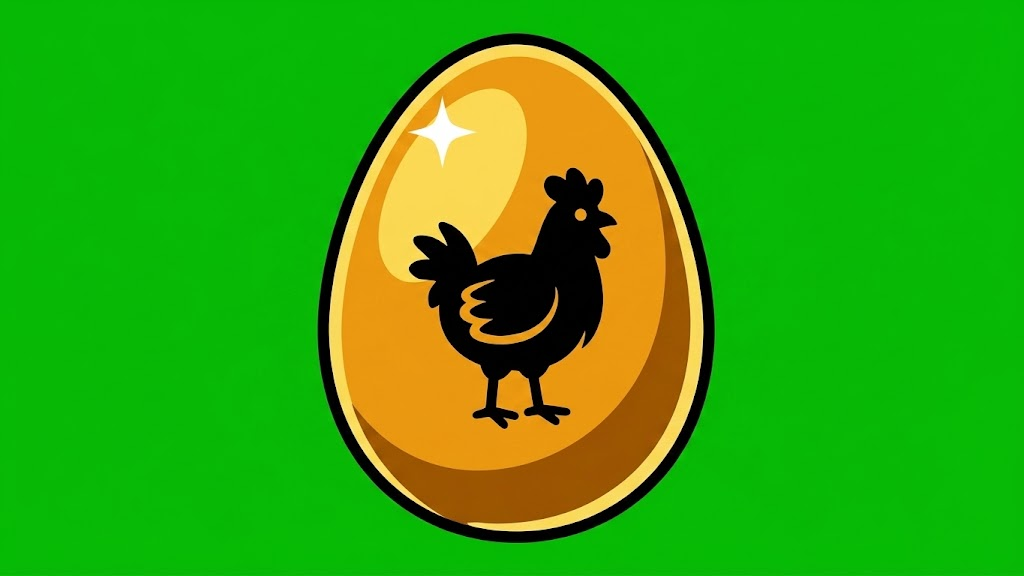
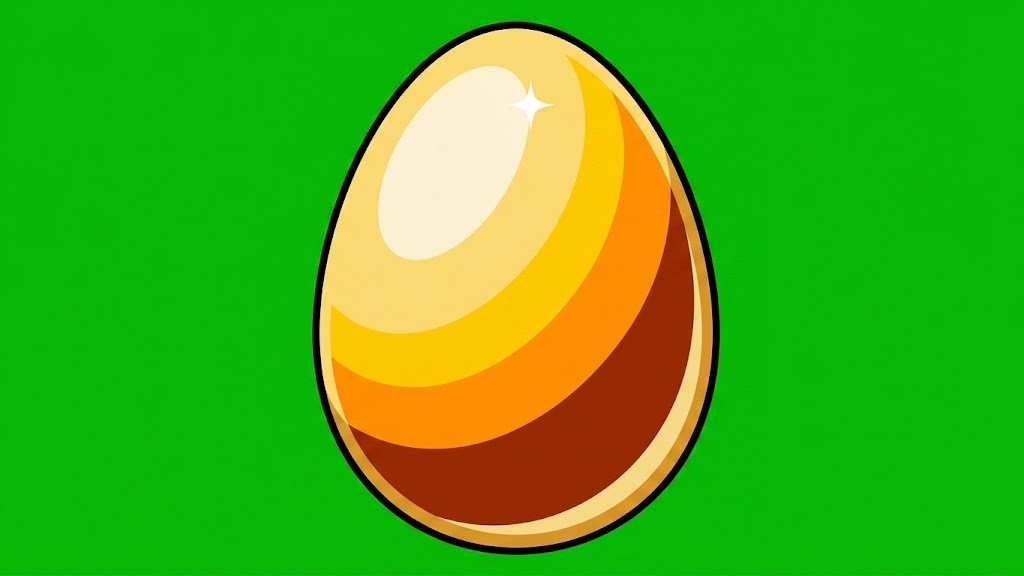
Paint the egg's spin instead of faking it, and take the stamp off
The stamp made it a token rather than treasure, so the egg is unmarked now, and
the colour does the work: cream highlight into bright yellow into saturated
orange into dark bronze, four clear cel bands rather than a smooth gradient.

The spin was the actual complaint though, and it took two wrong turns to fix.

Squashing one hero horizontally per frame is what it was doing. The silhouette
narrows but the highlight stays welded to the surface, so the eye reads a
picture being scaled rather than an object turning. That is precisely what
"cheap" looks like and no amount of better colour hides it.

So I tried to do it honestly: treat the painting as a texture wrapped round a
solid of revolution and re-project it per frame -- a pixel at horizontal
position u sits at surface angle asin(u), so after turning by t it is seen at
sin(asin(u) + t). The model is right. The result was striped: the mapping
crushes the whole texture into a few columns at the silhouette, so a handful of
source pixels smear across the edge. Doing that properly wants real area
sampling, and an artist can simply draw the seven views.

They are drawn now, and the two things that make a spin a spin are drawn with
them: a thin bright polished RIM at the edge-on frame, and a far side that comes
round DARKER because it faces away from the light. Without those, narrowing
still reads flat -- which is the note worth keeping out of all of this.

Seven frames instead of ten. The old egg7-9 are gone.
[…]

Changed region(s): [[0.2812, 0.0312, 0.7188, 0.9688]]

diff --git a/index.html b/index.html
@@ -1123,7 +1123,7 @@ function cosmeticImage(id, slot, src, opt){
    swappable while frames are in use. If any image fails to load the
    procedural puppet draws instead - the character can never vanish.
    ============================================================ */
-const FRAME_DATA = {"cow":[{"f":"cow0.webp","w":89,"h":154,"ay":153.5},{"f":"cow1.webp","w":85,"h":146,"ay":152.0},{"f":"cow2.webp","w":84,"h":164,"ay":165.1},{"f":"cow3.webp","w":91,"h":163,"ay":164.0},{"f":"cow4.webp","w":92,"h":146,"ay":147.2},{"f":"cow5.webp","w":60,"h":146,"ay":147.2}],"cowrun":[{"f":"cowrun0.webp","w":118,"h":164,"ay":164.0},{"f":"cowrun1.webp","w":120,"h":164,"ay":165.8},{"f":"cowrun2.webp","w":128,"h":154,"ay":159.1},{"f":"cowrun3.webp","w":154,"h":152,"ay":156.6},{"f":"cowrun4.webp","w":157,"h":147,"ay":152.9},{"f":"cowrun5.webp","w":170,"h":158,"ay":164.0}],"pig":[{"f":"pig0.webp","w":98,"h":156,"ay":156.0},{"f":"pig1.webp","w":113,"h":155,"ay":156.0},{"f":"pig2.webp","w":90,"h":154,"ay":156.0},{"f":"pig3.webp","w":110,"h":156,"ay":156.0},{"f":"pig4.webp","w":89,"h":155,"ay":156.0},{"f":"pig5.webp","w":92,"h":155,"ay":156.0}],"pigrun":[{"f":"pigrun0.webp","w":105,"h":156,"ay":156.0},{"f":"pigrun1.webp","w":110,"h":150,"ay":152.3},{"f":"pigrun2.webp","w":91,"h":132,"ay":135.0},{"f":"pigrun3.webp","w":125,"h":133,"ay":133.1},{"f":"pigrun4.webp","w":96,"h":125,"ay":125.8},{"f":"pigrun5.webp","w":107,"h":137,"ay":136.8}],"goat":[{"f":"goat0.webp","w":92,"h":159,"ay":161.4},{"f":"goat1.webp","w":91,"h":159,"ay":161.4},{"f":"goat2.webp","w":81,"h":158,"ay":159.5},{"f":"goat3.webp","w":82,"h":160,"ay":160.0},{"f":"goat4.webp","w":89,"h":160,"ay":159.5},{"f":"goat5.webp","w":92,"h":158,"ay":161.0}],"goatrun":[{"f":"goatrun0.webp","w":94,"h":159,"ay":160.0},{"f":"goatrun1.webp","w":84,"h":160,"ay":160.0},{"f":"goatrun2.webp","w":118,"h":148,"ay":147.7},{"f":"goatrun3.webp","w":125,"h":145,"ay":149.3},{"f":"goatrun4.webp","w":132,"h":143,"ay":147.7},{"f":"goatrun5.webp","w":141,"h":144,"ay":147.7}],"run":[{"f":"run0.webp","w":206,"h":199,"ay":199},{"f":"run1.webp","w":138,"h":182,"ay":182},{"f":"run2.webp","w":136,"h":181,"ay":181},{"f":"run3.webp","w":187,"h":196,"ay":196},{"f":"run4.webp","w":140,"h":181,"ay":181},{"f":"run5.webp","w":179,"h":195,"ay":195}],"fly":[{"f":"fly0.webp","w":110,"h":161,"ay":162.3},{"f":"fly1.webp","w":112,"h":158,"ay":163.1},{"f":"fly2.webp","w":163,"h":210,"ay":191.6},{"f":"fly3.webp","w":147,"h":158,"ay":181.3},{"f":"fly4.webp","w":148,"h":186,"ay":187.3},{"f":"fly5.webp","w":130,"h":185,"ay":179.7}],"fall":[{"f":"fall0.webp","w":122,"h":187,"ay":184.0},{"f":"fall1.webp","w":145,"h":199,"ay":186.0},{"f":"fall2.webp","w":174,"h":210,"ay":179.8},{"f":"fall3.webp","w":143,"h":198,"ay":182.3}],"jump":[{"f":"jump0.webp","w":122,"h":148,"ay":171.0},{"f":"jump1.webp","w":140,"h":171,"ay":169.4},{"f":"jump2.webp","w":138,"h":221,"ay":193.2},{"f":"jump3.webp","w":183,"h":186,"ay":179.6},{"f":"jump4.webp","w":155,"h":186,"ay":180.3}],"land":[{"f":"land0.webp","w":145,"h":183,"ay":183},{"f":"land1.webp","w":157,"h":179,"ay":179},{"f":"land2.webp","w":122,"h":121,"ay":121},{"f":"land3.webp","w":165,"h":186,"ay":186}],"hit":[{"f":"hit0.webp","w":145,"h":164,"ay":172.9},{"f":"hit1.webp","w":163,"h":186,"ay":185.1},{"f":"hit2.webp","w":122,"h":154,"ay":173.6},{"f":"hit3.webp","w":106,"h":126,"ay":166.0},{"f":"hit4.webp","w":178,"h":81,"ay":140.5},{"f":"hit5.webp","w":128,"h":146,"ay":173.4}],"kick":[{"f":"kick0.webp","w":164,"h":239,"ay":239.0},{"f":"kick1.webp","w":162,"h":228,"ay":228.0},{"f":"kick2.webp","w":172,"h":172,"ay":179.4},{"f":"kick3.webp","w":132,"h":192,"ay":178.6},{"f":"kick4.webp","w":182,"h":194,"ay":194.0}],"boom":[{"f":"boom0.webp","w":121,"h":125},{"f":"boom1.webp","w":194,"h":215},{"f":"boom2.webp","w":260,"h":273},{"f":"boom3.webp","w":209,"h":215},{"f":"boom4.webp","w":170,"h":175}],"cricket":[{"f":"cricket0.webp","w":45,"h":136,"ay":136.0},{"f":"cricket1.webp","w":44,"h":143,"ay":143.0},{"f":"cricket2.webp","w":67,"h":127,"ay":127.0},{"f":"cricket3.webp","w":58,"h":129,"ay":129.0},{"f":"cricket4.webp","w":62,"h":121,"ay":121.0},{"f":"cricket5.webp","w":55,"h":107,"ay":107.0}],"egg":[{"f":"egg0.webp","w":45,"h":58,"ay":29.0},{"f":"egg1.webp","w":43,"h":58,"ay":29.0},{"f":"egg2.webp","w":41,"h":58,"ay":29.0},{"f":"egg3.webp","w":37,"h":58,"ay":29.0},{"f":"egg4.webp","w":21,"h":58,"ay":29.0},{"f":"egg5.webp","w":14,"h":58,"ay":29.0},{"f":"egg6.webp","w":37,"h":58,"ay":29.0},{"f":"egg7.webp","w":39,"h":58,"ay":29.0},{"f":"egg8.webp","w":40,"h":58,"ay":29.0},{"f":"egg9.webp","w":41,"h":58,"ay":29.0}],"hensad":[{"f":"hensad0.webp","w":92,"h":98,"ay":98.0},{"f":"hensad1.webp","w":95,"h":98,"ay":98.0},{"f":"hensad2.webp","w":98,"h":98,"ay":98.0},{"f":"hensad3.webp","w":93,"h":98,"ay":98.0},{"f":"hensad4.webp","w":83,"h":98,"ay":98.0}],"henjoy":[{"f":"henjoy0.webp","w":94,"h":98,"ay":98.0},{"f":"henjoy1.webp","w":80,"h":98,"ay":98.0},{"f":"henjoy2.webp","w":80,"h":98,"ay":98.0},{"f":"henjoy3.webp","w":80,"h":98,"ay":98.0}],"farmer":[{"f":"farmer0.webp","w":94,"h":224,"ay":224.0},{"f":"farmer1.webp","w":102,"h":225,"ay":225.0},{"f":"farmer2.webp","w":141,"h":224,"ay":224.0},{"f":"farmer3.webp","w":155,"h":218,"ay":218.0},{"f":"farmer4.webp","w":129,"h":252,"ay":252.0},{"f":"farmer5.webp","w":122,"h":189,"ay":189.0}],"spy":[{"f":"spy0.webp","w":62,"h":86,"ay":86.0},{"f":"spy1.webp","w":62,"h":86,"ay":86.0},{"f":"spy2.webp","w":62,"h":86,"ay":86.0},{"f":"spy3.webp","w":85,"h":82,"ay":82.0},{"f":"spy4.webp","w":63,"h":86,"ay":86.0},{"f":"spy5.webp","w":76,"h":86,"ay":86.0}],"farmeridle":[{"f":"farmeridle0.webp","w":93,"h":224,"ay":224.0},{"f":"farmeridle1.webp","w":113,"h":224,"ay":224.0},{"f":"farmeridle2.webp","w":127,"h":222,"ay":222.0},{"f":"farmeridle3.webp","w":120,"h":224,"ay":224.0},{"f":"farmeridle4.webp","w":98,"h":222,"ay":222.0},{"f":"farmeridle5.webp","w":92,"h":224,"ay":224.0}],"spyalert":[{"f":"spyalert0.webp","w":62,"h":86,"ay":86.0},{"f":"spyalert1.webp","w":62,"h":86,"ay":86.0},{"f":"spyalert2.webp","w":62,"h":86,"ay":86.0},{"f":"spyalert3.webp","w":79,"h":86,"ay":86.0},{"f":"spyalert4.webp","w":63,"h":86,"ay":86.0},{"f":"spyalert5.webp","w":62,"h":85,"ay":85.0}],"farmerwalk":[{"f":"farmerwalk0.webp","w":113,"h":224,"ay":224.0},{"f":"farmerwalk1.webp","w":106,"h":220,"ay":220.0},{"f":"farmerwalk2.webp","w":109,"h":225,"ay":225.0},{"f":"farmerwalk3.webp","w":140,"h":234,"ay":234.0},{"f":"farmerwalk4.webp","w":127,"h":226,"ay":226.0},{"f":"farmerwalk5.webp","w":115,"h":221,"ay":221.0}]};
+const FRAME_DATA = {"cow":[{"f":"cow0.webp","w":89,"h":154,"ay":153.5},{"f":"cow1.webp","w":85,"h":146,"ay":152.0},{"f":"cow2.webp","w":84,"h":164,"ay":165.1},{"f":"cow3.webp","w":91,"h":163,"ay":164.0},{"f":"cow4.webp","w":92,"h":146,"ay":147.2},{"f":"cow5.webp","w":60,"h":146,"ay":147.2}],"cowrun":[{"f":"cowrun0.webp","w":118,"h":164,"ay":164.0},{"f":"cowrun1.webp","w":120,"h":164,"ay":165.8},{"f":"cowrun2.webp","w":128,"h":154,"ay":159.1},{"f":"cowrun3.webp","w":154,"h":152,"ay":156.6},{"f":"cowrun4.webp","w":157,"h":147,"ay":152.9},{"f":"cowrun5.webp","w":170,"h":158,"ay":164.0}],"pig":[{"f":"pig0.webp","w":98,"h":156,"ay":156.0},{"f":"pig1.webp","w":113,"h":155,"ay":156.0},{"f":"pig2.webp","w":90,"h":154,"ay":156.0},{"f":"pig3.webp","w":110,"h":156,"ay":156.0},{"f":"pig4.webp","w":89,"h":155,"ay":156.0},{"f":"pig5.webp","w":92,"h":155,"ay":156.0}],"pigrun":[{"f":"pigrun0.webp","w":105,"h":156,"ay":156.0},{"f":"pigrun1.webp","w":110,"h":150,"ay":152.3},{"f":"pigrun2.webp","w":91,"h":132,"ay":135.0},{"f":"pigrun3.webp","w":125,"h":133,"ay":133.1},{"f":"pigrun4.webp","w":96,"h":125,"ay":125.8},{"f":"pigrun5.webp","w":107,"h":137,"ay":136.8}],"goat":[{"f":"goat0.webp","w":92,"h":159,"ay":161.4},{"f":"goat1.webp","w":91,"h":159,"ay":161.4},{"f":"goat2.webp","w":81,"h":158,"ay":159.5},{"f":"goat3.webp","w":82,"h":160,"ay":160.0},{"f":"goat4.webp","w":89,"h":160,"ay":159.5},{"f":"goat5.webp","w":92,"h":158,"ay":161.0}],"goatrun":[{"f":"goatrun0.webp","w":94,"h":159,"ay":160.0},{"f":"goatrun1.webp","w":84,"h":160,"ay":160.0},{"f":"goatrun2.webp","w":118,"h":148,"ay":147.7},{"f":"goatrun3.webp","w":125,"h":145,"ay":149.3},{"f":"goatrun4.webp","w":132,"h":143,"ay":147.7},{"f":"goatrun5.webp","w":141,"h":144,"ay":147.7}],"run":[{"f":"run0.webp","w":206,"h":199,"ay":199},{"f":"run1.webp","w":138,"h":182,"ay":182},{"f":"run2.webp","w":136,"h":181,"ay":181},{"f":"run3.webp","w":187,"h":196,"ay":196},{"f":"run4.webp","w":140,"h":181,"ay":181},{"f":"run5.webp","w":179,"h":195,"ay":195}],"fly":[{"f":"fly0.webp","w":110,"h":161,"ay":162.3},{"f":"fly1.webp","w":112,"h":158,"ay":163.1},{"f":"fly2.webp","w":163,"h":210,"ay":191.6},{"f":"fly3.webp","w":147,"h":158,"ay":181.3},{"f":"fly4.webp","w":148,"h":186,"ay":187.3},{"f":"fly5.webp","w":130,"h":185,"ay":179.7}],"fall":[{"f":"fall0.webp","w":122,"h":187,"ay":184.0},{"f":"fall1.webp","w":145,"h":199,"ay":186.0},{"f":"fall2.webp","w":174,"h":210,"ay":179.8},{"f":"fall3.webp","w":143,"h":198,"ay":182.3}],"jump":[{"f":"jump0.webp","w":122,"h":148,"ay":171.0},{"f":"jump1.webp","w":140,"h":171,"ay":169.4},{"f":"jump2.webp","w":138,"h":221,"ay":193.2},{"f":"jump3.webp","w":183,"h":186,"ay":179.6},{"f":"jump4.webp","w":155,"h":186,"ay":180.3}],"land":[{"f":"land0.webp","w":145,"h":183,"ay":183},{"f":"land1.webp","w":157,"h":179,"ay":179},{"f":"land2.webp","w":122,"h":121,"ay":121},{"f":"land3.webp","w":165,"h":186,"ay":186}],"hit":[{"f":"hit0.webp","w":145,"h":164,"ay":172.9},{"f":"hit1.webp","w":163,"h":186,"ay":185.1},{"f":"hit2.webp","w":122,"h":154,"ay":173.6},{"f":"hit3.webp","w":106,"h":126,"ay":166.0},{"f":"hit4.webp","w":178,"h":81,"ay":140.5},{"f":"hit5.webp","w":128,"h":146,"ay":173.4}],"kick":[{"f":"kick0.webp","w":164,"h":239,"ay":239.0},{"f":"kick1.webp","w":162,"h":228,"ay":228.0},{"f":"kick2.webp","w":172,"h":172,"ay":179.4},{"f":"kick3.webp","w":132,"h":192,"ay":178.6},{"f":"kick4.webp","w":182,"h":194,"ay":194.0}],"boom":[{"f":"boom0.webp","w":121,"h":125},{"f":"boom1.webp","w":194,"h":215},{"f":"boom2.webp","w":260,"h":273},{"f":"boom3.webp","w":209,"h":215},{"f":"boom4.webp","w":170,"h":175}],"cricket":[{"f":"cricket0.webp","w":45,"h":136,"ay":136.0},{"f":"cricket1.webp","w":44,"h":143,"ay":143.0},{"f":"cricket2.webp","w":67,"h":127,"ay":127.0},{"f":"cricket3.webp","w":58,"h":129,"ay":129.0},{"f":"cricket4.webp","w":62,"h":121,"ay":121.0},{"f":"cricket5.webp","w":55,"h":107,"ay":107.0}],"egg":[{"f":"egg0.webp","w":48,"h":62,"ay":31.0},{"f":"egg1.webp","w":37,"h":62,"ay":31.0},{"f":"egg2.webp","w":28,"h":62,"ay":31.0},{"f":"egg3.webp","w":13,"h":62,"ay":31.0},{"f":"egg4.webp","w":27,"h":62,"ay":31.0},{"f":"egg5.webp","w":34,"h":62,"ay":31.0},{"f":"egg6.webp","w":46,"h":62,"ay":31.0}],"hensad":[{"f":"hensad0.webp","w":92,"h":98,"ay":98.0},{"f":"hensad1.webp","w":95,"h":98,"ay":98.0},{"f":"hensad2.webp","w":98,"h":98,"ay":98.0},{"f":"hensad3.webp","w":93,"h":98,"ay":98.0},{"f":"hensad4.webp","w":83,"h":98,"ay":98.0}],"henjoy":[{"f":"henjoy0.webp","w":94,"h":98,"ay":98.0},{"f":"henjoy1.webp","w":80,"h":98,"ay":98.0},{"f":"henjoy2.webp","w":80,"h":98,"ay":98.0},{"f":"henjoy3.webp","w":80,"h":98,"ay":98.0}],"farmer":[{"f":"farmer0.webp","w":94,"h":224,"ay":224.0},{"f":"farmer1.webp","w":102,"h":225,"ay":225.0},{"f":"farmer2.webp","w":141,"h":224,"ay":224.0},{"f":"farmer3.webp","w":155,"h":218,"ay":218.0},{"f":"farmer4.webp","w":129,"h":252,"ay":252.0},{"f":"farmer5.webp","w":122,"h":189,"ay":189.0}],"spy":[{"f":"spy0.webp","w":62,"h":86,"ay":86.0},{"f":"spy1.webp","w":62,"h":86,"ay":86.0},{"f":"spy2.webp","w":62,"h":86,"ay":86.0},{"f":"spy3.webp","w":85,"h":82,"ay":82.0},{"f":"spy4.webp","w":63,"h":86,"ay":86.0},{"f":"spy5.webp","w":76,"h":86,"ay":86.0}],"farmeridle":[{"f":"farmeridle0.webp","w":93,"h":224,"ay":224.0},{"f":"farmeridle1.webp","w":113,"h":224,"ay":224.0},{"f":"farmeridle2.webp","w":127,"h":222,"ay":222.0},{"f":"farmeridle3.webp","w":120,"h":224,"ay":224.0},{"f":"farmeridle4.webp","w":98,"h":222,"ay":222.0},{"f":"farmeridle5.webp","w":92,"h":224,"ay":224.0}],"spyalert":[{"f":"spyalert0.webp","w":62,"h":86,"ay":86.0},{"f":"spyalert1.webp","w":62,"h":86,"ay":86.0},{"f":"spyalert2.webp","w":62,"h":86,"ay":86.0},{"f":"spyalert3.webp","w":79,"h":86,"ay":86.0},{"f":"spyalert4.webp","w":63,"h":86,"ay":86.0},{"f":"spyalert5.webp","w":62,"h":85,"ay":85.0}],"farmerwalk":[{"f":"farmerwalk0.webp","w":113,"h":224,"ay":224.0},{"f":"farmerwalk1.webp","w":106,"h":220,"ay":220.0},{"f":"farmerwalk2.webp","w":109,"h":225,"ay":225.0},{"f":"farmerwalk3.webp","w":140,"h":234,"ay":234.0},{"f":"farmerwalk4.webp","w":127,"h":226,"ay":226.0},{"f":"farmerwalk5.webp","w":115,"h":221,"ay":221.0}]};
 const FR = { ready:false, n:0, need:0, img:{} };
 const SPR = 175/190;                       // world units per frame pixel
 /* The roadside animals are scenery. They are loaded like everything else but

diff --git a/tools/cut_eggs.py b/tools/cut_eggs.py
@@ -1,14 +1,29 @@
 # -*- coding: utf-8 -*-
-"""Build the golden egg's ten-frame spin from ONE painted egg.
+"""Slice the golden egg's spin out of one painted sheet.
 
-Generating ten frames of a spin and slicing them was how the old set was made,
-and it drifts: every frame is a separate drawing, so the silhouette wobbles and
-the highlight jumps. Here the spin is DERIVED. One hero egg is painted, and the
-frames are that egg turned on its vertical axis -- width scaled by |cos t|, the
-far half drawn mirrored and knocked back a little so it reads as the reverse
-face. The loop is then exact by construction and the egg cannot wobble.
+Two earlier versions of this got it wrong and both are worth remembering.
 
-    python cut_eggs.py          # sheets/v2/egg_hero.png -> anim/egg0..9.webp
+The first squashed a single hero egg horizontally per frame. That is what a
+cheap game does: the silhouette narrows but the highlight stays welded to the
+surface, so the eye reads a picture being scaled rather than an object turning.
+
+The second tried to fix that honestly, by treating the painting as a texture
+wrapped round a solid of revolution and re-projecting it per frame -- a pixel at
+horizontal position u sits at surface angle asin(u), so after turning by t it is
+seen at sin(asin(u) + t). That is the correct model, and it looked terrible: the
+mapping compresses the whole texture into a few columns near the silhouette, so
+a handful of source pixels smear across the edge and the egg comes out striped.
+Fixing it properly needs real area sampling, and it is not worth it when an
+artist can simply draw the seven views.
+
+So the spin is PAINTED, one sheet, and this only cuts it up. What the sheet has
+to contain, and what the prompt asks for in these words, is the part that makes
+it read: square on, narrowing, a thin bright polished RIM at the edge, then the
+far side coming round DARKER because it faces away from the light, widening and
+brightening back. The rim and the dark reverse are the whole difference between
+a spin and a squash.
+
+    python cut_eggs.py          # sheets/v2/egg_spin.png -> anim/egg*.webp
 """
 import os, sys, json
 import numpy as np
@@ -21,40 +36,48 @@ ROOT = os.path.dirname(os.path.dirname(os.path.abspath(__file__)))
 SH   = os.path.join(ROOT, "sheets", "v2")
 ANIM = os.path.join(ROOT, "anim")
 
-TALL = 58               # frame height in sprite pixels, unchanged from the old set
-BACK = 0.86             # the reverse face is knocked back to this much
-
-# Width per frame, as a fraction of the widest. This is NOT |cos t|: a true
-# cosine spends a third of the cycle edge-on, and an egg you cannot see is a
-# pickup the player cannot read. These are the proportions the hand-made set
-# used -- mostly facing you, with one quick flick through the edge -- measured
-# off it and kept.
-SPIN = [1.00, .96, .91, .83, .47, .32, .83, .87, .89, .91]
-FRONT = 5               # the first five face you; the rest are the reverse
+TALL = 62        # frame height in sprite pixels
 
 
 def main():
-    rgba = despill(key_green(Image.open(os.path.join(SH, "egg_hero.png"))))
-    bb = bbox(rgba[..., 3] > 0)
-    hero = Image.fromarray(rgba[bb[1]:bb[3], bb[0]:bb[2]], "RGBA")
-    hero = hero.resize((max(1, round(TALL * hero.width / hero.height)), TALL), Image.LANCZOS)
+    rgba = despill(key_green(Image.open(os.path.join(SH, "egg_spin.png"))))
+    al = rgba[..., 3]
 
-    back = Image.fromarray(np.dstack([
-        np.clip(np.asarray(hero)[..., :3] * BACK, 0, 255).astype(np.uint8),
-        np.asarray(hero)[..., 3]]), "RGBA").transpose(Image.FLIP_LEFT_RIGHT)
+    # Split on empty columns and keep runs BY POSITION, not by width: the
+    # edge-on frame is a sliver, and "keep the widest N" throws away the one
+    # frame that proves the egg is turning.
+    cols = al.sum(0) > 0
+    runs, s = [], None
+    for x, v in enumerate(cols):
+        if v and s is None: s = x
+        elif not v and s is not None:
+            runs.append((s, x)); s = None
+    if s is not None: runs.append((s, len(cols)))
+    runs = [r for r in runs if (r[1] - r[0]) >= 4]
+    tallest = max((al[:, a:b] > 0).sum(0).max() for a, b in runs)
+    runs = [r for r in runs if (al[:, r[0]:r[1]] > 0).sum(0).max() > tallest * 0.55]
+    print("  %d frames on the sheet" % len(runs))
 
+    # one scale for the whole sheet, off the tallest frame, so the egg does not
+    # change size as it turns
+    scale = TALL / float(tallest)
     meta = []
-    for i, f_w in enumerate(SPIN):
-        front = i < FRONT
-        src = hero if front else back
-        w = max(1, round(hero.width * f_w))
-        im = src.resize((w, TALL), Image.LANCZOS)
+    for i, (x0, x1) in enumerate(runs):
+        sub = rgba[:, x0:x1]
+        bb = bbox(sub[..., 3])
+        im = Image.fromarray(sub[bb[1]:bb[3], bb[0]:bb[2]], "RGBA")
+        w = max(1, round(im.width * scale))
+        h = max(1, round(im.height * scale))
+        im = im.resize((w, h), Image.LANCZOS)
         f = "egg%d.webp" % i
-        im.save(os.path.join(ANIM, f), "WEBP", quality=90, method=6)
+        im.save(os.path.join(ANIM, f), "WEBP", quality=92, method=6)
         # eggs hang on their CENTRE, not their feet: they float, spin and fly to
         # the counter, and every one of those wants the middle of the sprite
-        meta.append({"f": f, "w": w, "h": TALL, "ay": TALL / 2.0})
-        print("  %s %dx%d  %s" % (f, w, TALL, "front" if front else "back"))
+        meta.append({"f": f, "w": w, "h": h, "ay": h / 2.0})
+        print("   %s %dx%d" % (f, w, h))
+    for old in range(len(runs), 16):                     # a shorter cycle than before
+        p = os.path.join(ANIM, "egg%d.webp" % old)
+        if os.path.exists(p): os.remove(p); print("   removed %s" % os.path.basename(p))
     print(json.dumps(meta, separators=(",", ":")))
     return meta
 

diff --git a/_CONTINUE-HERE.md b/_CONTINUE-HERE.md
@@ -656,23 +656,32 @@ has to hand over to the map's own panels.
 Joyride lays out coins - a flat line, an arc, or a climb - so a run of them can
 be followed with one held press. **`eggFree` rejects any egg that lands inside a
 hazard**, including zapper beams, so chasing them is a real choice and never
-bait. **The ten-frame spin is DERIVED from one painted egg**, not drawn ten times
-(`tools/cut_eggs.py`, `sheets/v2/egg_hero.png`). Ten separate drawings drift --
-the silhouette wobbles and the highlight jumps between frames -- so instead the
-hero is turned on its vertical axis: width scaled per frame, the far half drawn
-mirrored and knocked back so it reads as the reverse face. The loop is exact by
-construction and the egg cannot wobble.
+bait. **The spin is PAINTED as one sheet** (`sheets/v2/egg_spin.png`) and
+`tools/cut_eggs.py` only cuts it up. Two earlier versions got this wrong and
+both are written up at the top of that file, because both are tempting:
 
-The width profile is **not** `|cos t|`. A true cosine spends a third of the cycle
-edge-on, and a pickup you cannot see is a pickup the player cannot read; `SPIN`
-holds the proportions the old hand-made set used -- mostly facing you, one quick
-flick through the edge -- measured off it and kept.
+- **Squashing one hero egg horizontally per frame.** The silhouette narrows but
+  the highlight stays welded to the surface, so the eye reads a picture being
+  scaled rather than an object turning. This is what "cheap" looks like.
+- **Re-projecting the painting as a texture wrapped round a solid of
+  revolution** -- a pixel at horizontal position u sits at surface angle
+  `asin(u)`, so after turning by t it is seen at `sin(asin(u) + t)`. That model
+  is *correct* and it looked terrible: the mapping crushes the whole texture
+  into a few columns at the silhouette, so a handful of source pixels smear
+  across the edge and the egg comes out striped. Doing it properly needs real
+  area sampling, and an artist can just draw the seven views.
 
-The egg carries a stamped chicken, which is what makes it read as minted
-currency rather than an Easter egg, and `art/egg_icon.webp` puts the same
-painting in the HUD so the counter and the thing you collected are obviously the
-same object. Two alternates are kept next to the hero: `egg_alt_band.png` and
-`egg_alt_plain.png`. Swapping is one file plus a re-run of the tool. Taken eggs fly to the counter; the pickup pings up a
+What the sheet has to contain, and what the prompt asks for in these words:
+square on, narrowing, **a thin bright polished RIM at the edge**, then the far
+side coming round **DARKER because it faces away from the light**, widening and
+brightening back. The rim and the dark reverse are the entire difference between
+a spin and a squash -- without them any amount of narrowing still reads flat.
+
+The egg carries **no marking**. A stamped one was tried and reads as a token
+rather than treasure. `art/egg_icon.webp` puts the same painting in the HUD so
+the counter and the thing you collected are obviously one object. Alternates sit
+next to the hero: `egg_alt_soft.png`, `egg_alt_cool.png`, `egg_alt_band.png`,
+`egg_alt_plain.png`. Taken eggs fly to the counter; the pickup pings up a
 semitone per egg in a streak. `game.eggBank` persists in `localStorage` under
 `dgh_eggs`.
 
